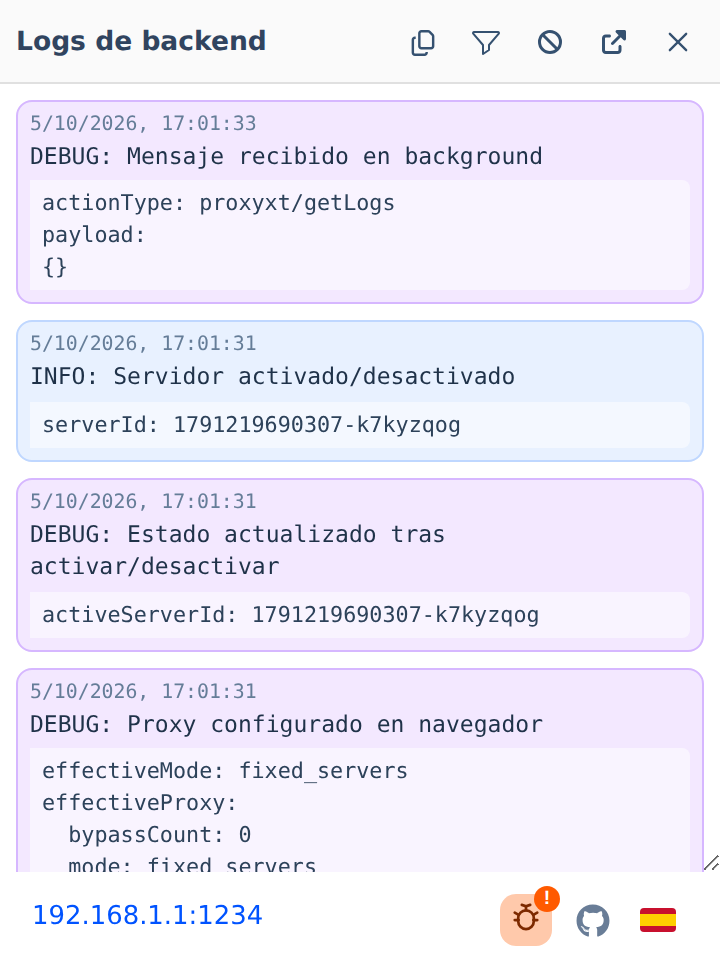
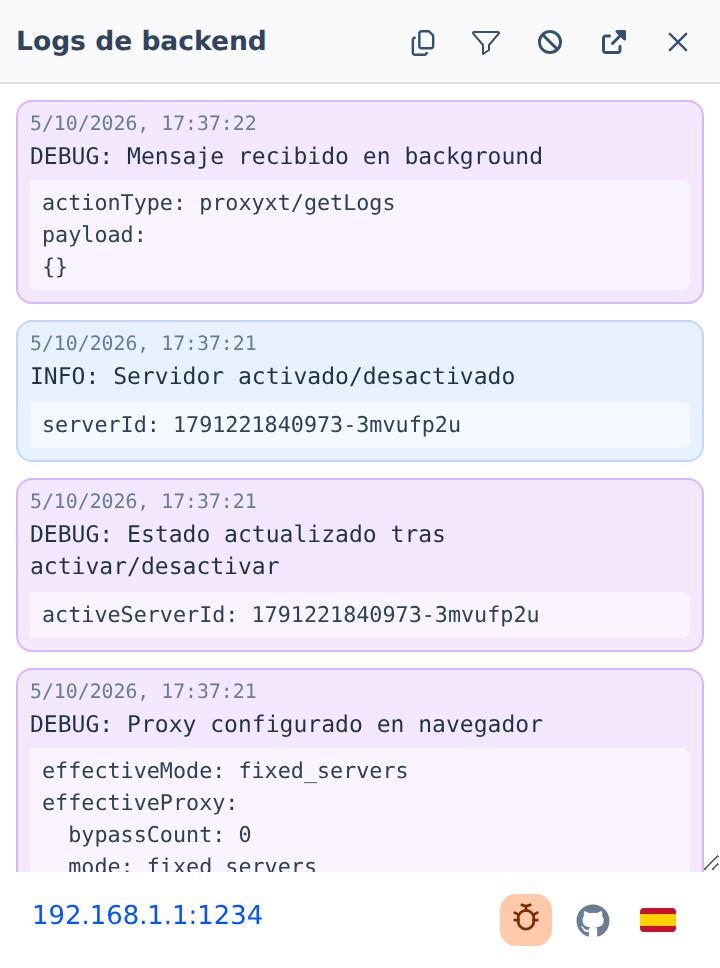
chore: anadir script de capturas del README con Playwright
- scripts/screenshots.mjs carga build/chrome en Chromium y genera las capturas de static/.
- Nuevo comando npm run screenshots y playwright como devDependency.
- README documenta como regenerar las capturas.

diff --git a/README.md b/README.md
@@ -81,6 +81,20 @@ El build de Chrome omite `browser_specific_settings` y el de Firefox usa `backgr
 npm test
 ```
 
+## Capturas del README
+
+Las capturas de `static/` se generan con Playwright cargando el build de Chrome en Chromium:
+
+```bash
+npx playwright install chromium   # solo la primera vez
+npm run screenshots
+```
+
+El script (`scripts/screenshots.mjs`) compila `build/chrome`, abre el popup a 360 px de ancho, da de alta un servidor de ejemplo y captura la vista principal, el alta de servidor, el servidor activo, las preferencias y los logs. Variables opcionales:
+
+- `CHROMIUM_PATH`: ejecutable de Chromium a usar en lugar del instalado por Playwright.
+- `SCREENSHOTS_OUT`: carpeta de salida (por defecto `static/`).
+
 ## CI y releases
 
 - `.github/workflows/build.yml`: en cada push a `main` y en cada pull request ejecuta los tests y genera los zip para Chrome y Firefox como artefactos.
@@ -112,7 +126,7 @@ npm test
 
 ```text
 messages/    Diccionarios YAML de traduccion
-scripts/     Build con esbuild y comprobacion de claves de traduccion
+scripts/     Build con esbuild, comprobacion de claves de traduccion y capturas
 src/         Popup, background, manifest y recursos fuente
 static/      Capturas usadas en este README
 dist/        Extension generada lista para cargar en el navegador
